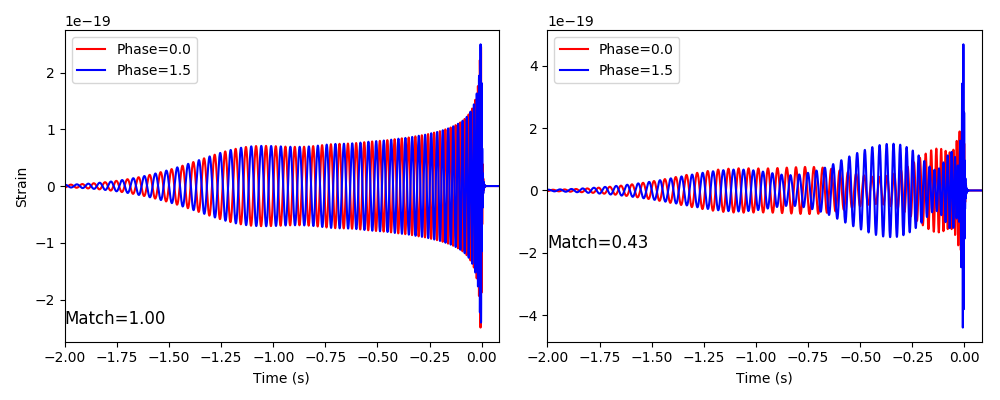
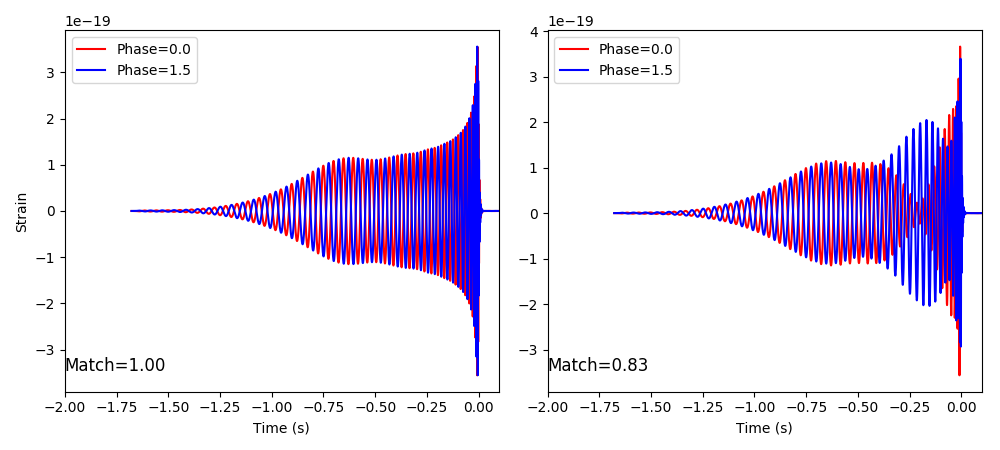
Phase plots

diff --git a/Report/phasePlots.py b/Report/phasePlots.py
@@ -11,7 +11,7 @@ psi=0.
 apx="IMRPhenomPv2"
 hp, hc = get_td_waveform(approximant=apx,inclination=inc,
                                  mass1=40,
-                                 mass2=15,
+                                 mass2=25,
                                  spin1z=0.0,
                                  spin1x=0.0,
                                  delta_t=1.0/4096,
@@ -21,7 +21,7 @@ hp, hc = get_td_waveform(approximant=apx,inclination=inc,
 
 sp, sc = get_td_waveform(approximant=apx,inclination=inc,
                                  mass1=40,
-                                 mass2=15,
+                                 mass2=25,
                                  spin1x=0.0,
                                  spin1z=0.0,
                                  coa_phase=1.5,
@@ -31,7 +31,7 @@ sp, sc = get_td_waveform(approximant=apx,inclination=inc,
 
 gp, gc = get_td_waveform(approximant=apx,inclination=inc,
                                  mass1=40,
-                                 mass2=15,
+                                 mass2=25,
                                  spin1x=0.9,
                                  spin1z=0.0,
                                  coa_phase=0.0,
@@ -40,7 +40,7 @@ gp, gc = get_td_waveform(approximant=apx,inclination=inc,
 
 pp, pc = get_td_waveform(approximant=apx,inclination=inc,
                                  mass1=40,
-                                 mass2=15,
+                                 mass2=25,
                                  spin1x=0.9,
                                  spin1z=0.0,
                                  coa_phase=1.5,
@@ -74,13 +74,13 @@ m1, i = match(h, s, psd=psd, low_frequency_cutoff=f_low)
 m2, i = match(g, p, psd=psd, low_frequency_cutoff=f_low)
 
 lowlim=-2.
-plt.figure(figsize=(10,4))
+plt.figure(figsize=(10,4.5))
 plt.title("Phase affect on precessing and non-precessing waveforms")
 plt.subplot(1,2,1)
 plt.plot(hp.sample_times, h,'r-', label="Phase=0.0")
 plt.plot(sp.sample_times, s,'b-', label="Phase=1.5")
 plt.ylabel('Strain')
-plt.text(lowlim, min(h), 'Match=%.2f' % m1, ha='left', va='bottom', fontsize=12)
+plt.text(lowlim, min(min(h),min(s)), 'Match=%.2f' % m1, ha='left', va='bottom', fontsize=12)
 plt.xlim(lowlim,hp.sample_times[-1])
 plt.xlabel('Time (s)')
 plt.legend(loc="best")
@@ -90,7 +90,7 @@ plt.subplot(1,2,2)
 plt.plot(gp.sample_times, g,'r-', label="Phase=0.0")
 plt.plot(pp.sample_times, p,'b-', label="Phase=1.5")
 plt.xlabel('Time (s)')
-plt.text(lowlim, min(g), 'Match=%.2f' % m2, ha='left', va='bottom', fontsize=12)
+plt.text(lowlim, min(min(p),min(g)), 'Match=%.2f' % m2, ha='left', va='bottom', fontsize=12)
 plt.legend(loc="best")
 plt.xlim(lowlim,hp.sample_times[-1])
 plt.tight_layout()
